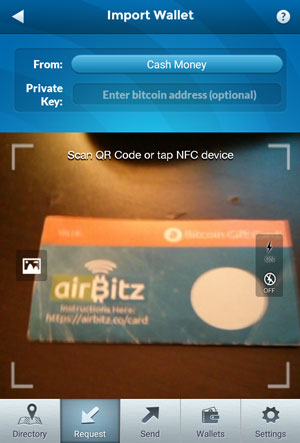
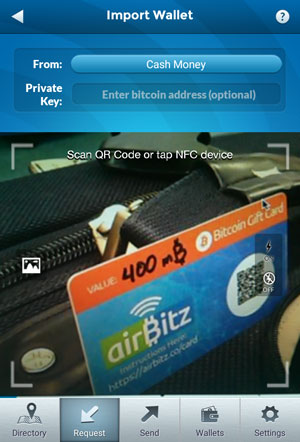
- Updates to card and hiddenbits pages - Most screenshots redone

diff --git a/airbitz/management/templates/pages/hiddenbits/_main.html b/airbitz/management/templates/pages/hiddenbits/_main.html
@@ -23,11 +23,6 @@
     {{ page_title|safe }}
   </h1>
 
-
-  <style>
-    hr {
-      margin: 40px 0;}
-  </style>
   <div class="row">
 
     <div class="col-xs-12">
@@ -42,8 +37,9 @@
       <hr/>
 
       <div class="row">
-        <div class="col-sm-2">
+        <div class="col-sm-2 text-center">
           <div class="step">1</div>
+          <h3 class="step-description">Install</h3>
         </div>
         <div class="col-sm-10">
 
@@ -72,16 +68,14 @@
       <hr/>
 
       <div class="row">
-        <div class="col-sm-2">
+        <div class="col-sm-2 text-center">
           <div class="step">2</div>
+          <h3 class="step-description">Follow</h3>
         </div>
         <div class="col-sm-10">
-
-          <p><strong>Follow Airbitz on Twitter for Clues.</strong></p>
-          <p>
-            <a href="https://twitter.com/airbitz" class="twitter-follow-button" data-show-count="false" data-size="large" data-dnt="true">Follow @airbitz</a>
-            <script>!function(d,s,id){var js,fjs=d.getElementsByTagName(s)[0],p=/^http:/.test(d.location)?'http':'https';if(!d.getElementById(id)){js=d.createElement(s);js.id=id;js.src=p+'://platform.twitter.com/widgets.js';fjs.parentNode.insertBefore(js,fjs);}}(document, 'script', 'twitter-wjs');</script>
-          </p>
+          <p><strong>Follow us and retweet this tweet.  The city with the most retweets will be the next chosen city.</strong></p>
+          <blockquote class="twitter-tweet" data-cards="hidden" lang="en"><p>We are hiding <a href="https://twitter.com/hashtag/bitcoin?src=hash">#bitcoin</a> in cities near you. Use Airbitz wallet to find the <a href="https://twitter.com/hashtag/hiddenbits?src=hash">#hiddenbits</a>. Follow us for daily clues! <a href="http://t.co/2r2GNzfUTt">pic.twitter.com/2r2GNzfUTt</a></p>&mdash; Airbitz Inc (@Airbitz) <a href="https://twitter.com/Airbitz/status/555477093828415488">January 14, 2015</a></blockquote>
+          <script async src="//platform.twitter.com/widgets.js" charset="utf-8"></script>
 
         </div>
       </div>
@@ -89,19 +83,23 @@
       <hr/>
 
       <div class="row">
-        <div class="col-sm-2">
+        <div class="col-sm-2 text-center">
           <div class="step">3</div>
+          <h3 class="step-description">Listen</h3>
         </div>
         <div class="col-sm-10">
 
           <div class="row">
             <div class="col-sm-4">
               <p><strong>Listen for clues on Twitter then use the Airbitz directory to search for the clues.</strong></p>
-              <blockquote class="twitter-tweet" data-cards="hidden" lang="en"><p>MT <a href="https://twitter.com/btcchina">@BTCChina</a> &quot;<a href="https://twitter.com/hashtag/Bitcoin?src=hash">#Bitcoin</a> is one of the 11 most exciting new <a href="https://twitter.com/hashtag/tech?src=hash">#tech</a> moving from deceptive to disruptive this year. <a href="http://t.co/3C6zEqiZEA">http://t.co/3C6zEqiZEA</a> <a href="https://twitter.com/hashtag/btc?src=hash">#btc</a></p>&mdash; Airbitz Inc (@Airbitz) <a href="https://twitter.com/Airbitz/status/554736090599677952">January 12, 2015</a></blockquote>
+              <blockquote class="twitter-tweet" data-conversation="none" data-cards="hidden" lang="en"><p><a href="https://twitter.com/Airbitz">@Airbitz</a> **EXAMPLE** DAILY CLUE: Search for &quot;Red Pill Smoothies&quot; in &quot;Cypherpunkville&quot; to find todays <a href="https://twitter.com/hashtag/hiddenbits?src=hash">#hiddenbits</a> <a href="http://t.co/23puESkMUH">pic.twitter.com/23puESkMUH</a></p>&mdash; Airbitz Inc (@Airbitz) <a href="https://twitter.com/Airbitz/status/555622063373697024">January 15, 2015</a></blockquote>
               <script async src="//platform.twitter.com/widgets.js" charset="utf-8"></script>
             </div>
             <div class="col-sm-4">
               <img class="img-thumbnail" src="{{ STATIC_URL }}img/hiddenbits/directory-clue-search.jpg" alt="Airbitz Clue Search" />
+            </div>
+            <div class="col-sm-4">
+              <img class="img-thumbnail" src="{{ STATIC_URL }}img/hiddenbits/directory-clue-result.jpg" alt="Airbitz Clue Search" />
             </div>
           </div>
 
@@ -111,21 +109,46 @@
       <hr/>
 
       <div class="row">
-        <div class="col-sm-2">
+        <div class="col-sm-2 text-center">
           <div class="step">4</div>
+          <h3 class="step-description">Go Visit</h3>
         </div>
         <div class="col-sm-10">
 
           <div class="row">
             <div class="col-sm-4">
-              <p><strong>Physically visit the Hiddenbits location and follow the instructions inside the listing carefully.</strong></p>
+              <p><strong>Physically visit the Hiddenbits location.</strong></p>
+              <p><strong>When you arrive follow the instructions in the listing description carefully.</strong></p>
+            </div>
+            <div class="col-sm-4">
+              <img class="img-thumbnail" src="{{ STATIC_URL }}img/hiddenbits/directory-listing-directions.jpg" alt="Airbitz Request Import"/>
+            </div>
+            <div class="col-sm-4">
+              <img class="img-thumbnail" src="{{ STATIC_URL }}img/hiddenbits/directory-listing-instructions.jpg" alt="Airbitz QR Scan"/>
+            </div>
+          </div>
+
+        </div>
+      </div>
+
+      <hr/>
+
+      <div class="row">
+        <div class="col-sm-2 text-center">
+          <div class="step">5</div>
+          <h3 class="step-description">Redeem</h3>
+        </div>
+        <div class="col-sm-10">
+
+          <div class="row">
+            <div class="col-sm-4">
               <a class="btn btn-lg btn-success" href="{% url 'page_card' %}">How to Redeem</a>
               <br/>
               <br/>
               <blockquote>
-                <p>Login to the Airbitz Wallet mobile app or create an account tapping <code>Wallets</code> on the bottom bar.</p>
-                <p>Tap <code>Request</code> on the bottom bar, then tap <code>Import</code>.</p>
-                <p>Scan the QR code on the Airbitz Bitcoin Gift Card</p>
+                <p><strong>Login to the Airbitz Wallet mobile app or create an account by tapping <code>Request</code> on the bottom bar.</strong></p>
+                <p><strong>Then tap <code>Import</code>.</strong></p>
+                <p><strong>Scan the QR code on the Airbitz Bitcoin Gift Card</strong></p>
               </blockquote>
             </div>
             <div class="col-sm-4">
@@ -142,14 +165,15 @@
       <hr/>
 
       <div class="row">
-        <div class="col-sm-2">
-          <div class="step">5</div>
+        <div class="col-sm-2 text-center">
+          <div class="step">6</div>
+          <h3 class="step-description">Share</h3>
         </div>
         <div class="col-sm-10">
 
           <div class="row">
             <div class="col-sm-4">
-              <p><strong>Share your success via Twitter and double your Hiddenbits reward!</strong></p>
+              <p><strong>Share your success via Twitter and we will boost your Hiddenbits reward!</strong></p>
             </div>
             <div class="col-sm-4">
               <img class="img-thumbnail" src="{{ STATIC_URL }}img/hiddenbits/twitter-hiddenbits-tweet.jpg" alt="Hiddenbits Tweet"/>

diff --git a/airbitz/management/templates/pages/card/_main.html b/airbitz/management/templates/pages/card/_main.html
@@ -25,11 +25,6 @@
     {{ page_title|safe }}
   </h1>
 
-
-  <style>
-    hr {
-      margin: 40px 0;}
-  </style>
   <div class="row">
 
     <div class="col-xs-12">
@@ -39,8 +34,9 @@
       <hr/>
 
       <div class="row">
-        <div class="col-sm-2">
+        <div class="col-sm-2 text-center">
           <div class="step">1</div>
+          <h3 class="step-description">Install</h3>
         </div>
         <div class="col-sm-10">
 
@@ -71,16 +67,18 @@
       <hr/>
 
       <div class="row">
-        <div class="col-sm-2">
+        <div class="col-sm-2 text-center">
           <div class="step">2</div>
+          <h3 class="step-description">Login</h3>
         </div>
         <div class="col-sm-10">
           <div class="row">
             <div class="col-sm-4">
-              <p><strong>Login to the Airbitz Wallet mobile app or create an account tapping <code>Wallets</code> on the bottom bar.</strong></p>
+              <p><strong>Tap <code>Request</code> on the bottom bar.</strong></p>
+              <p><strong><code>Login</code> or <code>Create an Account</code>.</strong></p>
             </div>
             <div class="col-sm-4">
-              <img class="img-thumbnail" src="{{ STATIC_URL }}img/card/airbitz-wallet-button.jpg" alt="Airbitz Wallet Button" />
+              <img class="img-thumbnail" src="{{ STATIC_URL }}img/card/airbitz-request-button.jpg" alt="Airbitz Bitcoin Request" />
             </div>
             <div class="col-sm-4">
               <img class="img-thumbnail" src="{{ STATIC_URL }}img/card/airbitz-create-account.jpg" alt="Airbitz Create Account" />
@@ -92,18 +90,15 @@
       <hr/>
 
       <div class="row">
-        <div class="col-sm-2">
+        <div class="col-sm-2 text-center">
           <div class="step">3</div>
+          <h3 class="step-description">Import</h3>
         </div>
         <div class="col-sm-10">
 
           <div class="row">
             <div class="col-sm-4">
-              <p><strong>Tap <code>Request</code> on the bottom bar.</strong></p>
-              <p><strong>Then tap <code>Import</code>.</strong></p>
-            </div>
-            <div class="col-sm-4">
-              <img class="img-thumbnail" src="{{ STATIC_URL }}img/card/airbitz-request-button.jpg" alt="Airbitz Bitcoin Request" />
+              <p><strong>Tap <code>Import</code>.</strong></p>
             </div>
             <div class="col-sm-4">
               <img class="img-thumbnail" src="{{ STATIC_URL }}img/card/airbitz-import-button.jpg" alt="Airbitz Wallet Import" />
@@ -116,14 +111,15 @@
       <hr/>
 
       <div class="row">
-        <div class="col-sm-2">
+        <div class="col-sm-2 text-center">
           <div class="step">4</div>
+          <h3 class="step-description">Scan</h3>
         </div>
         <div class="col-sm-10">
 
           <div class="row">
             <div class="col-sm-4">
-              <p><strong>Scan the QR code on the Airbitz Bitcoin Gift Card</strong></p>
+              <p><strong><code>Scan the QR code</code> on the Bitcoin Gift Card using your phones camera.</strong></p>
             </div>
             <div class="col-sm-4">
               <img class="img-thumbnail" src="{{ STATIC_URL }}img/card/airbitz-request-import.jpg" alt="Airbitz Scan QR Code" />

diff --git a/airbitz/airbitz/static/less/page-content.less b/airbitz/airbitz/static/less/page-content.less
@@ -28,6 +28,10 @@ body {
         margin-top: 50px;
     }
 
+    hr {
+        margin: 40px 0;
+        border-color: #aaa;
+    }
     #sidebar {
         width: 100%;
         padding: 0;
@@ -127,6 +131,7 @@ body {
 
     .step {
         width: 90px;
+        margin: 0 auto;
         padding: 30px;
         background: @ab-blue;
         color: #fff;
@@ -137,9 +142,12 @@ body {
         box-shadow: 0 5px #555;
 
         @media(max-width: @screen-sm) {
-            margin: 0 auto;
             margin-bottom: 30px;
         }
+    }
+    
+    .step-description {
+        margin-bottom: 30px;
     }
 
     .feature-section {

diff --git a/airbitz/airbitz/static/css/page-content.css b/airbitz/airbitz/static/css/page-content.css
@@ -21,6 +21,10 @@ body {
 .main-content h2 {
   margin-top: 50px;
 }
+.main-content hr {
+  margin: 40px 0;
+  border-color: #aaa;
+}
 .main-content #sidebar {
   width: 100%;
   padding: 0;
@@ -121,6 +125,7 @@ body {
 }
 .main-content .step {
   width: 90px;
+  margin: 0 auto;
   padding: 30px;
   background: #2291cf;
   color: #fff;
@@ -132,9 +137,11 @@ body {
 }
 @media (max-width: 768px) {
   .main-content .step {
-    margin: 0 auto;
     margin-bottom: 30px;
   }
+}
+.main-content .step-description {
+  margin-bottom: 30px;
 }
 .main-content .feature-section {
   margin-bottom: 30px;
